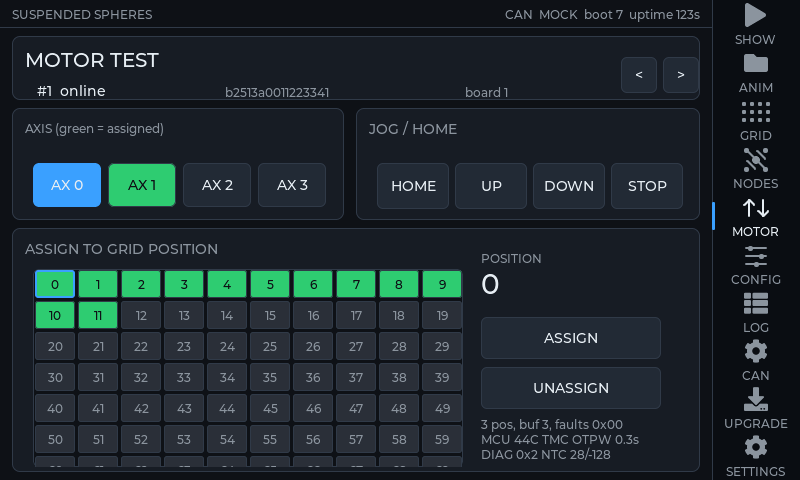
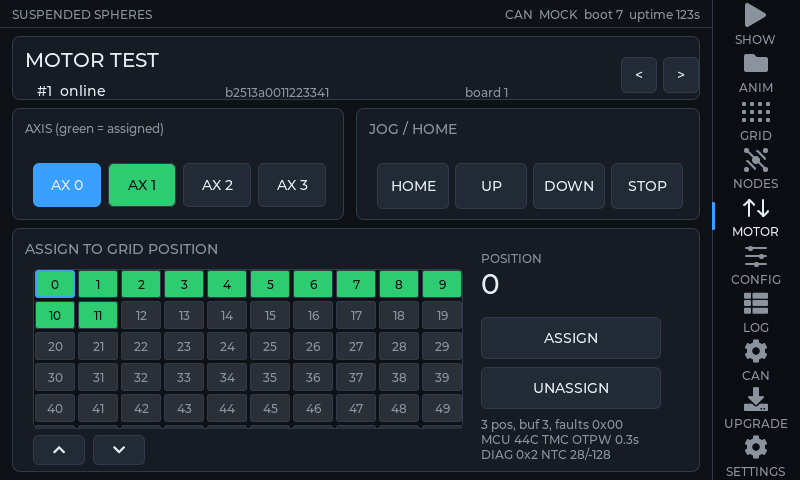
esp32gui: fix CAN scope columns and add scroll buttons
The CAN scope header is a label row now instead of a text area, and the
body uses the readable UI font with spaced hex bytes. Every scrollable
view is driven by up/down buttons; swipe scrolling is disabled.

Changed region(s): [[0.0312, 0.9062, 0.5938, 0.9688]]

diff --git a/esp32gui/ui/ui.cpp b/esp32gui/ui/ui.cpp
@@ -381,6 +381,30 @@ void on_log_clear(lv_event_t *e) {
   if (s_actions.log_clear != nullptr) s_actions.log_clear();
 }
 
+void on_scroll_up(lv_event_t *e) {
+  lv_obj_t *target = static_cast<lv_obj_t *>(lv_event_get_user_data(e));
+  if (target != nullptr) lv_obj_scroll_by_bounded(target, 0, -160, LV_ANIM_ON);
+}
+
+void on_scroll_down(lv_event_t *e) {
+  lv_obj_t *target = static_cast<lv_obj_t *>(lv_event_get_user_data(e));
+  if (target != nullptr) lv_obj_scroll_by_bounded(target, 0, 160, LV_ANIM_ON);
+}
+
+/* The panel has no swipe gestures: clearing SCROLLABLE stops touch scrolling
+ * while the two buttons still move the content with lv_obj_scroll_by_bounded. */
+void add_scroll_buttons(lv_obj_t *parent, lv_obj_t *target, int x, int y,
+                        int w, int h, int gap, bool vertical) {
+  lv_obj_clear_flag(target, LV_OBJ_FLAG_SCROLLABLE);
+  lv_obj_set_scrollbar_mode(target, LV_SCROLLBAR_MODE_OFF);
+  lv_obj_t *up = make_button(parent, LV_SYMBOL_UP, w, h, on_scroll_up, target);
+  lv_obj_set_pos(up, x, y);
+  lv_obj_t *down = make_button(parent, LV_SYMBOL_DOWN, w, h, on_scroll_down,
+                               target);
+  lv_obj_set_pos(down, vertical ? x : x + w + gap,
+                 vertical ? y + h + gap : y);
+}
+
 void on_can_toggle(lv_event_t *e) {
   (void)e;
   if (s_snap.can_running) {
@@ -698,7 +722,7 @@ void build_animations(void) {
   s_anim_status = make_label(controls, "idle", &lv_font_montserrat_12, C_MUTED);
   lv_obj_set_pos(s_anim_status, 356, 10);
   lv_label_set_long_mode(s_anim_status, LV_LABEL_LONG_WRAP);
-  lv_obj_set_width(s_anim_status, 300);
+  lv_obj_set_width(s_anim_status, 200);
 
   lv_obj_t *list = lv_obj_create(s);
   lv_obj_remove_style_all(list);
@@ -716,6 +740,7 @@ void build_animations(void) {
   lv_obj_set_scrollbar_mode(list, LV_SCROLLBAR_MODE_ACTIVE);
   s_anim_list = list;
   s_anim_shown_hash = 0;
+  add_scroll_buttons(controls, list, 568, 8, 48, 48, 8, false);
 }
 
 void build_grid(void) {
@@ -779,7 +804,7 @@ void build_nodes(void) {
   lv_obj_t *head = make_panel(s, 12, 8, 688, 58);
   make_label(head, "DISCOVERED BOARDS", &lv_font_montserrat_20, C_TEXT);
   s_nodes_summary = make_label(head, "", &lv_font_montserrat_12, C_MUTED);
-  lv_obj_align(s_nodes_summary, LV_ALIGN_RIGHT_MID, -12, 0);
+  lv_obj_align(s_nodes_summary, LV_ALIGN_RIGHT_MID, -120, 0);
 
   lv_obj_t *list = lv_obj_create(s);
   lv_obj_remove_style_all(list);
@@ -797,6 +822,7 @@ void build_nodes(void) {
   lv_obj_set_scrollbar_mode(list, LV_SCROLLBAR_MODE_ACTIVE);
   s_nodes_list = list;
   s_nodes_shown_hash = 0;
+  add_scroll_buttons(head, list, 560, 2, 44, 30, 12, false);
 }
 
 void build_motor(void) {
@@ -841,7 +867,7 @@ void build_motor(void) {
   lv_obj_t *grid = lv_obj_create(assign);
   lv_obj_remove_style_all(grid);
   lv_obj_set_pos(grid, 8, 28);
-  lv_obj_set_size(grid, 430, 198);
+  lv_obj_set_size(grid, 430, 160);
   lv_obj_set_style_bg_color(grid, C_BG, 0);
   lv_obj_set_style_bg_opa(grid, LV_OPA_COVER, 0);
   lv_obj_set_style_radius(grid, 6, 0);
@@ -852,6 +878,7 @@ void build_motor(void) {
   s_motor_grid = grid;
   s_motor_cols = 0;
   s_motor_rows = 0;
+  add_scroll_buttons(assign, grid, 8, 194, 52, 30, 8, false);
 
   lv_obj_t *pos_lbl = make_label(assign, "POSITION", &lv_font_montserrat_12,
                                  C_MUTED);
@@ -988,15 +1015,18 @@ void build_log(void) {
 
   s_log_text = lv_textarea_create(s);
   lv_obj_set_pos(s_log_text, 12, 64);
-  lv_obj_set_size(s_log_text, 688, 380);
+  lv_obj_set_size(s_log_text, 624, 380);
   lv_textarea_set_text(s_log_text, "");
   lv_obj_set_style_bg_color(s_log_text, C_PANEL, 0);
   lv_obj_set_style_bg_opa(s_log_text, LV_OPA_COVER, 0);
   lv_obj_set_style_text_color(s_log_text, C_TEXT, 0);
   lv_obj_set_style_text_font(s_log_text, &lv_font_montserrat_12, 0);
+  lv_obj_set_style_pad_left(s_log_text, 8, 0);
+  lv_obj_set_style_pad_top(s_log_text, 8, 0);
   lv_obj_set_style_border_color(s_log_text, C_LINE, 0);
   lv_obj_set_style_border_width(s_log_text, 1, 0);
   lv_obj_clear_flag(s_log_text, LV_OBJ_FLAG_CLICKABLE);
+  add_scroll_buttons(s, s_log_text, 644, 196, 48, 48, 18, true);
 }
 
 void build_can(void) {
@@ -1010,38 +1040,32 @@ void build_can(void) {
   lv_obj_t *clear = make_button(head, "CLEAR", 100, 36, on_can_clear, nullptr);
   lv_obj_align(clear, LV_ALIGN_RIGHT_MID, -12, 0);
 
-  char header[96];
-  std::snprintf(header, sizeof(header), "%-3s %-4s %5s %s", "ID", "TYPE",
-                "CNT", "DATA");
-  lv_obj_t *s_can_header = lv_textarea_create(s);
-  lv_obj_set_pos(s_can_header, 12, 62);
-  lv_obj_set_size(s_can_header, 688, 30);
-  lv_textarea_set_text(s_can_header, header);
-  lv_obj_set_style_bg_color(s_can_header, C_PANEL2, 0);
-  lv_obj_set_style_bg_opa(s_can_header, LV_OPA_COVER, 0);
-  lv_obj_set_style_text_color(s_can_header, C_MUTED, 0);
-  lv_obj_set_style_text_font(s_can_header, &lv_font_unscii_16, 0);
-  lv_obj_set_style_pad_left(s_can_header, 8, 0);
-  lv_obj_set_style_pad_top(s_can_header, 4, 0);
-  lv_obj_set_style_pad_bottom(s_can_header, 4, 0);
-  lv_obj_set_style_border_color(s_can_header, C_LINE, 0);
-  lv_obj_set_style_border_width(s_can_header, 1, 0);
-  lv_obj_set_style_radius(s_can_header, 6, 0);
-  lv_obj_clear_flag(s_can_header, LV_OBJ_FLAG_CLICKABLE);
-  lv_obj_clear_flag(s_can_header, LV_OBJ_FLAG_SCROLLABLE);
+  /* A label, not a text area, so the column headings are centred in their
+   * row and cannot be clipped by the widget's text cursor. */
+  lv_obj_t *header = make_panel(s, 12, 62, 624, 30);
+  lv_obj_set_style_pad_all(header, 0, 0);
+  lv_obj_set_style_bg_color(header, C_PANEL2, 0);
+  const char *cols[4] = {"ID", "TYPE", "CNT", "DATA"};
+  const int col_x[4] = {8, 46, 94, 156};
+  for (int i = 0; i < 4; ++i) {
+    lv_obj_t *l = make_label(header, cols[i], &lv_font_montserrat_12, C_MUTED);
+    lv_obj_set_pos(l, col_x[i], 7);
+  }
 
   s_can_text = lv_textarea_create(s);
   lv_obj_set_pos(s_can_text, 12, 96);
-  lv_obj_set_size(s_can_text, 688, 348);
+  lv_obj_set_size(s_can_text, 624, 348);
   lv_textarea_set_text(s_can_text, "");
   lv_obj_set_style_bg_color(s_can_text, C_PANEL, 0);
   lv_obj_set_style_bg_opa(s_can_text, LV_OPA_COVER, 0);
   lv_obj_set_style_text_color(s_can_text, C_TEXT, 0);
-  lv_obj_set_style_text_font(s_can_text, &lv_font_unscii_16, 0);
+  lv_obj_set_style_text_font(s_can_text, &lv_font_montserrat_12, 0);
   lv_obj_set_style_pad_left(s_can_text, 8, 0);
+  lv_obj_set_style_pad_top(s_can_text, 6, 0);
   lv_obj_set_style_border_color(s_can_text, C_LINE, 0);
   lv_obj_set_style_border_width(s_can_text, 1, 0);
   lv_obj_clear_flag(s_can_text, LV_OBJ_FLAG_CLICKABLE);
+  add_scroll_buttons(s, s_can_text, 644, 196, 48, 48, 18, true);
 }
 
 void build_upgrade(void) {
@@ -1061,7 +1085,7 @@ void build_upgrade(void) {
   s_upgrade_status = make_label(controls, "idle", &lv_font_montserrat_12, C_MUTED);
   lv_obj_set_pos(s_upgrade_status, 356, 10);
   lv_label_set_long_mode(s_upgrade_status, LV_LABEL_LONG_WRAP);
-  lv_obj_set_width(s_upgrade_status, 300);
+  lv_obj_set_width(s_upgrade_status, 190);
   s_upgrade_progress = lv_bar_create(controls);
   lv_obj_set_pos(s_upgrade_progress, 356, 44);
   lv_obj_set_size(s_upgrade_progress, 300, 8);
@@ -1088,6 +1112,7 @@ void build_upgrade(void) {
   lv_obj_set_scrollbar_mode(list, LV_SCROLLBAR_MODE_ACTIVE);
   s_upgrade_list = list;
   s_upgrade_shown_hash = 0;
+  add_scroll_buttons(controls, list, 568, 8, 48, 48, 8, false);
 }
 
 void build_settings(void) {
@@ -1615,15 +1640,16 @@ void ui_update(const ui_snapshot_t *snapshot) {
         char data[24];
         size_t dp = 0;
         for (int b = 0; b < e->data_len && b < 8; ++b) {
-          dp += (size_t)std::snprintf(data + dp, sizeof(data) - dp, "%02x",
-                                      e->data[b]);
+          dp += (size_t)std::snprintf(data + dp, sizeof(data) - dp, "%s%02x",
+                                      b ? " " : "", e->data[b]);
         }
         data[dp] = '\0';
-        off += (size_t)std::snprintf(
-            s_can_buf + off, sizeof(s_can_buf) - off,
-            "%03lx %-4u %5lu %s\n",
+        const int wrote = std::snprintf(
+            s_can_buf + off, sizeof(s_can_buf) - off, "%03lx %-4u %5lu  %s\n",
             (unsigned long)e->identifier, (unsigned)e->type,
             (unsigned long)e->frame_count, data);
+        if (wrote < 0) break;
+        off += (size_t)wrote;
         if (off >= sizeof(s_can_buf) - 1) break;
       }
       if (s_snap.can_entry_count == 0) {
